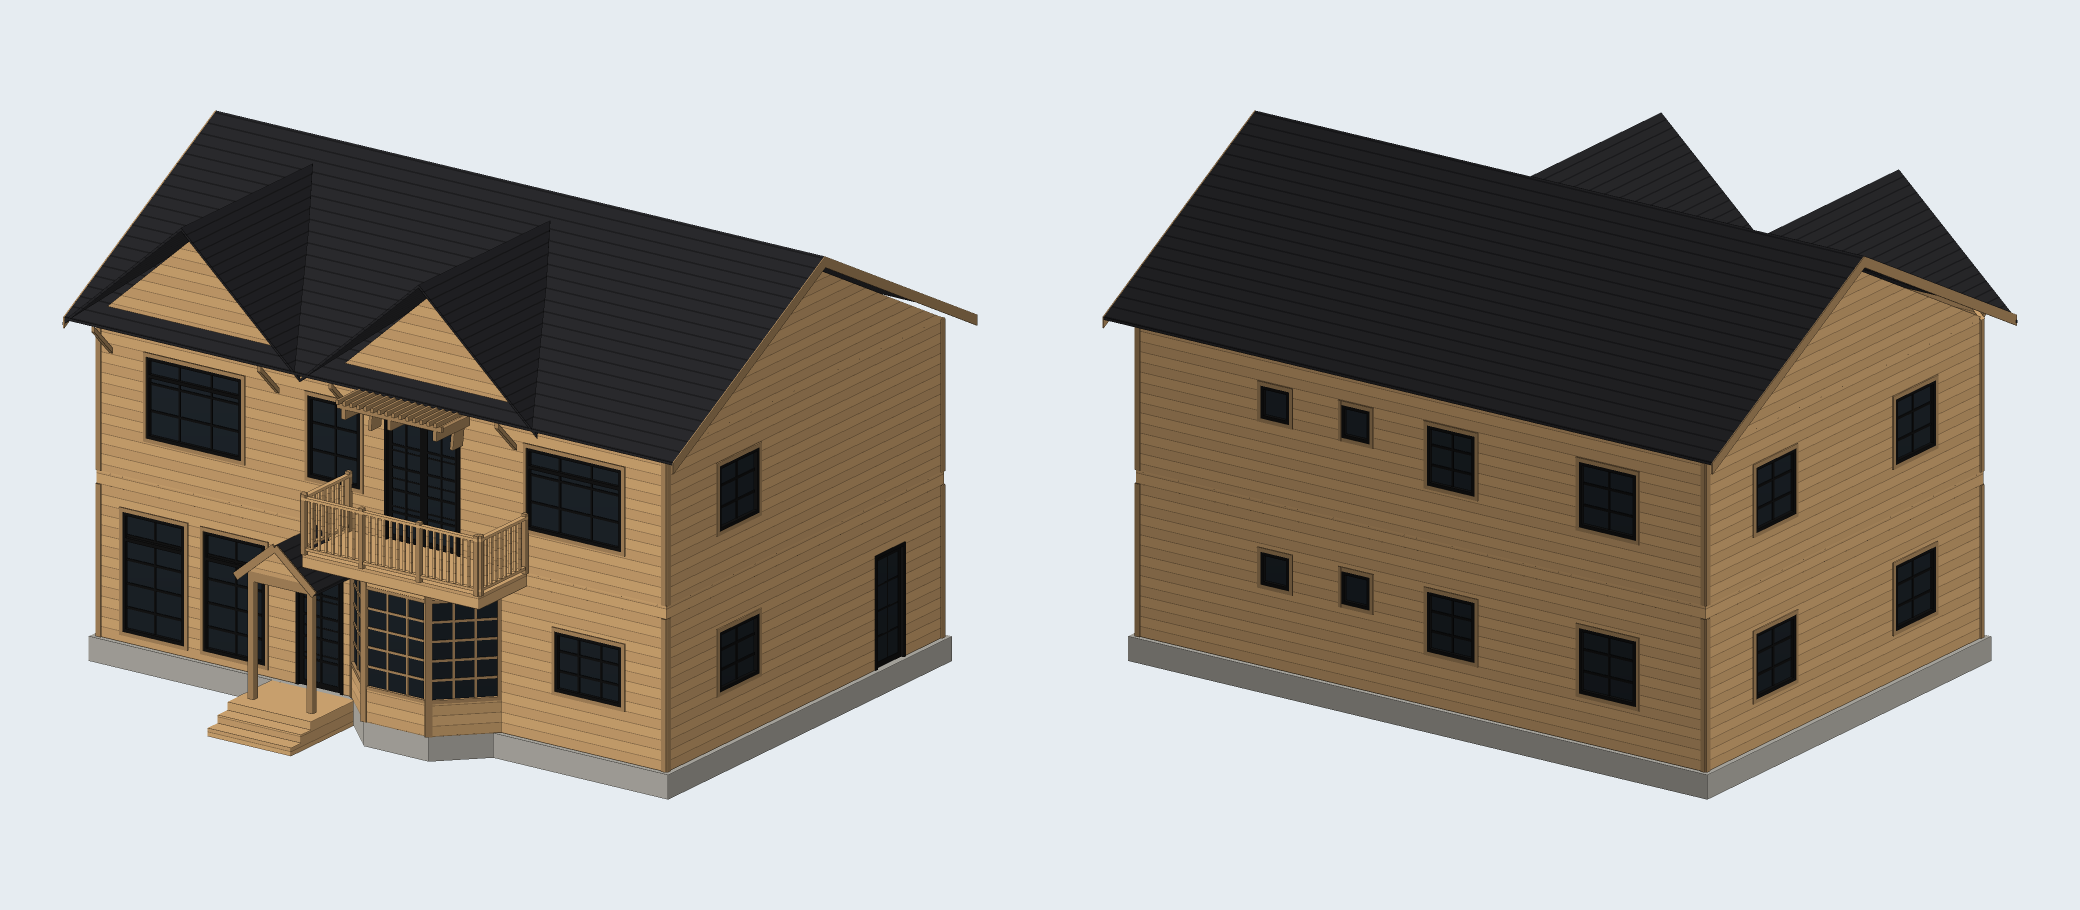
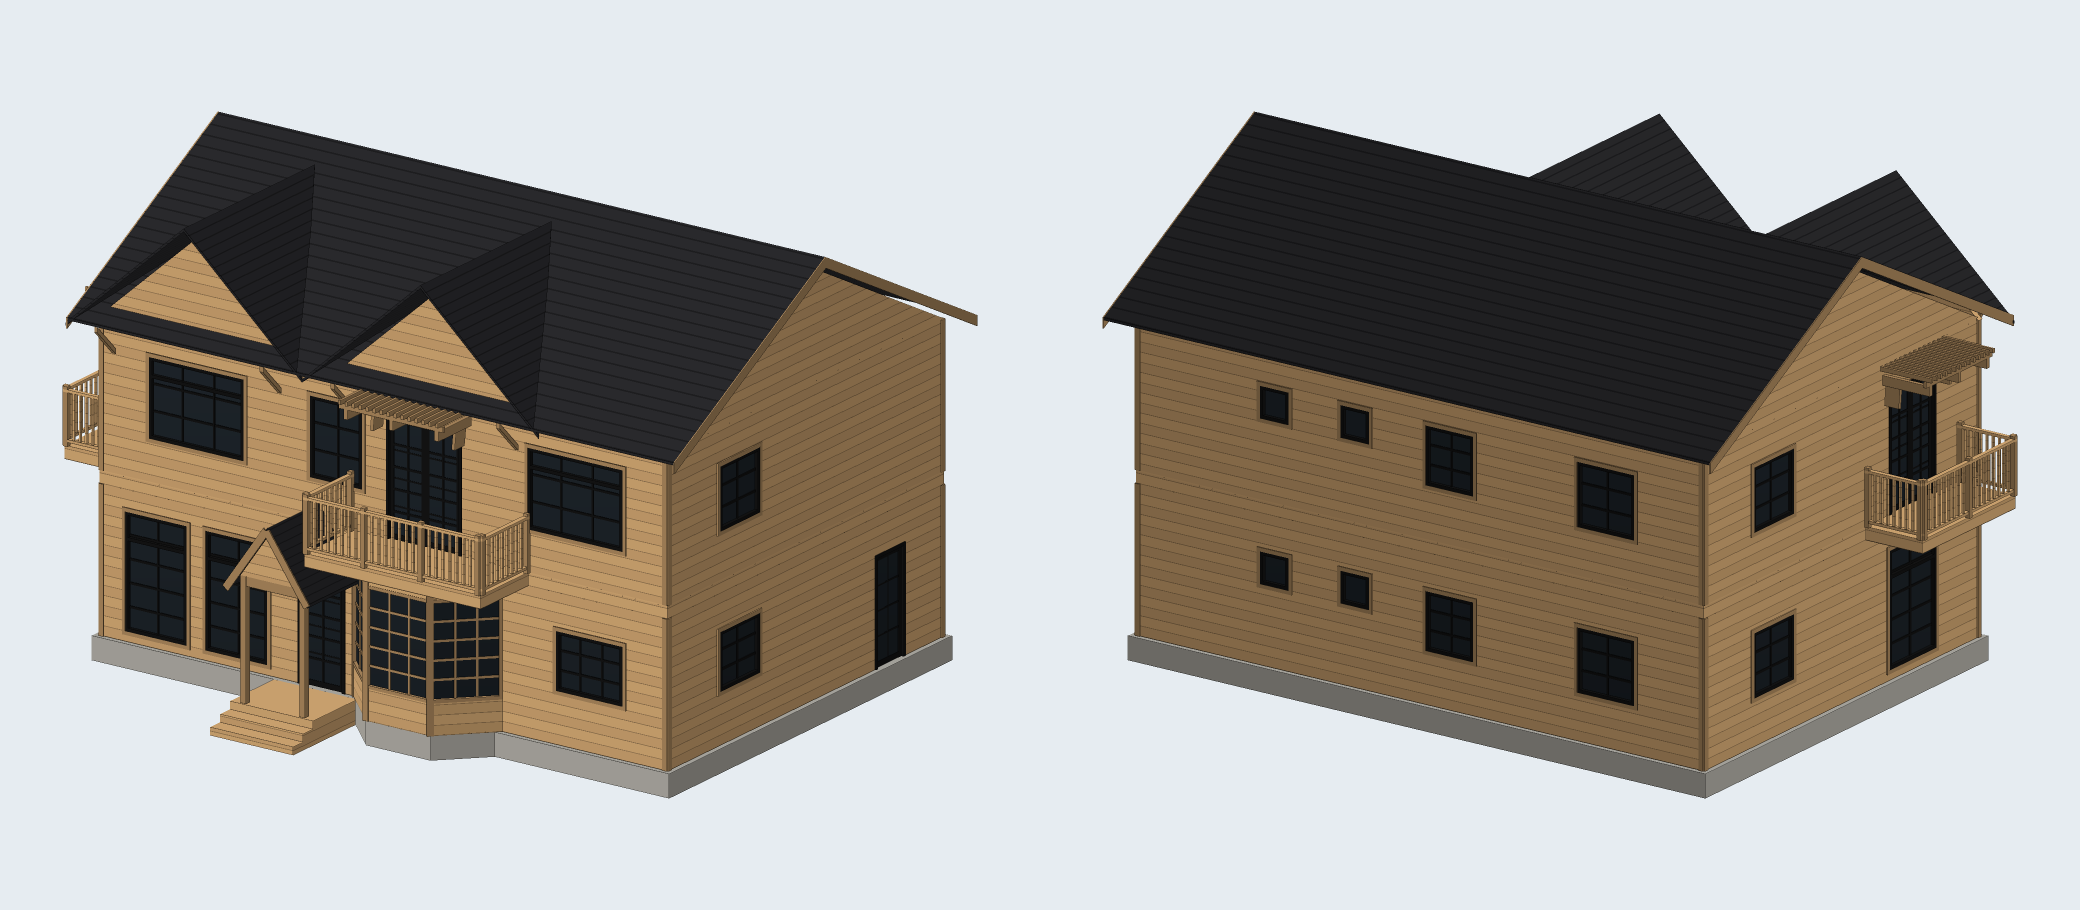
Villa 200: side balcony + steeper porch like video; realistic night: eave/gable spot lights + wall lanterns, wood window frames option
Claude-Session: https://claude.ai/code/session_01RPy2YNPhvhBx8xSJ4i1ndt

diff --git a/watad/realistic.py b/watad/realistic.py
@@ -124,6 +124,61 @@ def interior_shots(project, max_shots=6):
     return out
 
 
+def ext_lights(project, rules, spacing=0.9):
+    """سبوت تحت رفرف السقف والمثلثات البارزة + مظلة المدخل + فوانيس جنب الأبواب الخارجية (بالمتر)."""
+    import math as _m
+    from .model import outer_bbox, wall_thickness
+    from .roof import cross_gables, roof_geometry
+    x0, y0, x1, y1 = (v / 100 for v in outer_bbox(project, rules))
+    r = project.roof
+    H = project.roof_base / 100
+    ov = r.overhang / 100
+    tp = _m.tan(_m.radians(r.pitch_deg))
+    rise = roof_geometry(project, rules)["rise"] / 100
+    pts = []
+    if r.type != "shed":
+        zs = H - 0.12
+        if r.ridge_axis == "x":
+            for yy in (y0 - ov * 0.55, y1 + ov * 0.55):
+                n = max(2, int((x1 - x0) / spacing))
+                pts += [[x0 + (x1 - x0) * (k + 0.5) / n, yy, zs, 6, "spot"] for k in range(n)]
+            for xx, sg in ((x0, -1), (x1, 1)):            # رفرف الجملون على الجنبين
+                for k in range(1, 9):
+                    f = k / 9
+                    yy = y0 + (y1 - y0) / 2 * f
+                    pts.append([xx + sg * ov * 0.55, yy, H + rise * f - 0.18, 6, "spot"])
+                    pts.append([xx + sg * ov * 0.55, y1 - (y1 - y0) / 2 * f, H + rise * f - 0.18, 6, "spot"])
+        else:
+            for xx in (x0 - ov * 0.55, x1 + ov * 0.55):
+                n = max(2, int((y1 - y0) / spacing))
+                pts += [[xx, y0 + (y1 - y0) * (k + 0.5) / n, zs, 6, "spot"] for k in range(n)]
+    for g in cross_gables(project, rules):                # تحت رفرف المثلثات البارزة (على المائل)
+        c, hw, wall, sg = g["c"] / 100, g["hw"] / 100, g["wall"] / 100, g["sg"]
+        zr, Hg = g["zr"] / 100, g["H"] / 100
+        for k in range(1, 7):
+            f = k / 7
+            for side in (-1, 1):
+                a = c + side * hw * (1 - f)
+                z = Hg + (zr - Hg) * f - 0.2
+                o = wall + sg * g["ov"] / 100 * 0.55
+                pts.append([a, o, z, 6, "spot"] if g["axis"] == "x" else [o, a, z, 6, "spot"])
+    half = wall_thickness(rules) / 2
+    for pc in project.porches:
+        w = next(w_ for w_ in project.walls if w_.name == pc["wall"])
+        x, y = w.point(pc["offset"] + pc["width"] / 2, -half - pc.get("depth", 120) / 2)
+        pts.append([x / 100, y / 100, (project.level(w.floor) + pc.get("eave", 240) - 8) / 100, 25, "spot"])
+    for w in project.walls:                              # فوانيس جنب الأبواب الخارجية
+        if not w.exterior:
+            continue
+        for o in w.openings:
+            if o.kind != "door" or o.leaves == 0:
+                continue
+            for t in (o.offset - 22, o.offset + o.width + 22):
+                x, y = w.point(t, -half - 0.12 * 100)
+                pts.append([x / 100, y / 100, (project.level(w.floor) + 205) / 100, 18, "lamp"])
+    return pts
+
+
 def _areas(project, per_m2):
     out = []
     for r in project.rooms:
@@ -163,6 +218,7 @@ def render_real(project, rules, style, heights, out_dir, samples=64, res=(1600, 
             "colors": {k: style[k] for k in ("wood", "trim", "roof", "frame", "glass", "slab")},
             "views": [], "furnish": items, "furnish_py": str(ROOT / "tools" / "blender_furnish.py"),
             "landscape": plan_landscape(project, keep_clear=[tuple(s[2][:2]) for s in ext]),
+            "wood_frames": style.get("frame_ar", "").startswith("إطار خشب"),
             "samples": samples, "res": list(res), "ground_z": -project.slab_height / 100, "lights": [], "lens": 35}
     day = ([[s[0], s[2], s[3], s[4], s[5], 0.0] for s in ext] if "exterior" in parts else []) + \
         ([[s[0], s[2], s[3], s[4], s[5], 0.6] for s in inn] if "interior" in parts else [])
@@ -170,7 +226,8 @@ def render_real(project, rules, style, heights, out_dir, samples=64, res=(1600, 
         _run({**base, **DAY, "tag": "day", "shots": day, "area_lights": _areas(project, 15)}, out)
     dusk = [["d" + s[0][1:], s[2], s[3], s[4], s[5], 1.2] for s in ext[:2]]
     if "dusk" in parts:
-        _run({**base, **DUSK, "tag": "dusk", "shots": dusk, "area_lights": _areas(project, 40)}, out)
+        _run({**base, **DUSK, "tag": "dusk", "shots": dusk, "area_lights": _areas(project, 40),
+              "ext_lights": ext_lights(project, rules)}, out)
     glb.unlink(missing_ok=True)
     meta = {"exterior": [[f"{s[0]}.jpg", s[1]] for s in ext],
             "dusk": [[f"d{s[0][1:]}.jpg", s[1] + " — وقت الغروب"] for s in ext[:2]],

diff --git a/tools/render_blender.py b/tools/render_blender.py
@@ -140,6 +140,9 @@ if cfg.get("furnish") or cfg.get("landscape"):
         # الخارج خشب طبيعي فاتح مثل كبائن المصنع الحقيقية (بدل الصبغة الغامقة)
         ext = tex_material("W_ext", "WoodFloor043", 0.8, "#D8A868", 0.18, bump=0.12)
         MATS.update({"wood": ext, "trim": beam, "stair": beam, "door": beam})
+MATS["frame_wood"] = MATS["trim"]      # تقسيم خشب الزجاج (الشبابيك البارزة/الأبواب الفرنسية)
+if cfg.get("wood_frames"):              # إطارات خشب (مثل الكوخ الكلاسيكي) بدل الألمنيوم
+    MATS["frame"] = MATS["trim"]
 for ob in list(scene.objects):
     if ob.type != "MESH":
         continue
@@ -192,6 +195,32 @@ for i, (x, y, z) in enumerate(cfg.get("lights", [])):
     o.location = (x, y, z)
     o.visible_camera = False
     scene.collection.objects.link(o)
+
+# إنارة خارجية (سبوت تحت الرفرف + فوانيس جدارية) — للقطات الليل مثل كبائن المصنع
+_spot_mat = bpy.data.materials.new("W_spot")
+_spot_mat.use_nodes = True
+_em = _spot_mat.node_tree.nodes.new("ShaderNodeEmission")
+_em.inputs["Color"].default_value = (1.0, 0.86, 0.62, 1)
+_em.inputs["Strength"].default_value = 60
+_spot_mat.node_tree.links.new(_em.outputs[0], _spot_mat.node_tree.nodes["Material Output"].inputs["Surface"])
+for i, (x, y, z, w, kind) in enumerate(cfg.get("ext_lights", [])):
+    if kind == "spot":                     # سبوت سقف موجّه للأسفل
+        L_ = bpy.data.lights.new(f"ex{i}", "SPOT")
+        L_.spot_size = math.radians(110)
+        L_.spot_blend = 0.8
+        L_.shadow_soft_size = 0.03
+    else:                                  # فانوس جداري
+        L_ = bpy.data.lights.new(f"ex{i}", "POINT")
+        L_.shadow_soft_size = 0.06
+    L_.energy = w
+    L_.color = (1.0, 0.8, 0.55)
+    o = bpy.data.objects.new(f"ex{i}", L_)
+    o.location = (x, y, z - (0.03 if kind == "spot" else 0))
+    o.visible_camera = False
+    scene.collection.objects.link(o)
+    r = 0.035 if kind == "spot" else 0.07
+    bpy.ops.mesh.primitive_cylinder_add(radius=r, depth=0.02 if kind == "spot" else 0.16, location=(x, y, z))
+    bpy.context.active_object.data.materials.append(_spot_mat)
 
 # فرش حقيقي للقطات الداخلية
 if cfg.get("furnish") or cfg.get("landscape"):
